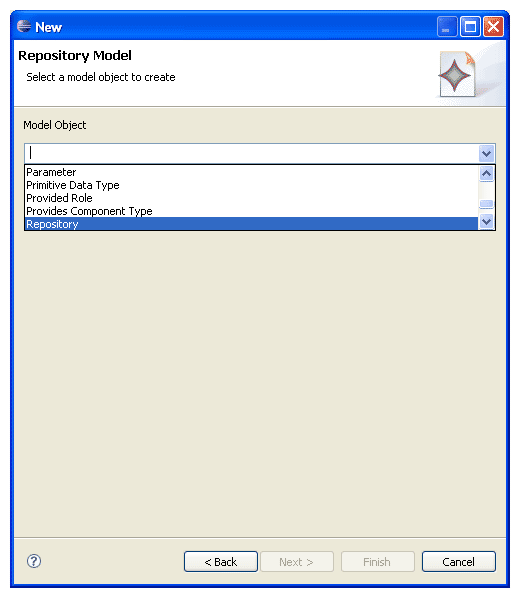
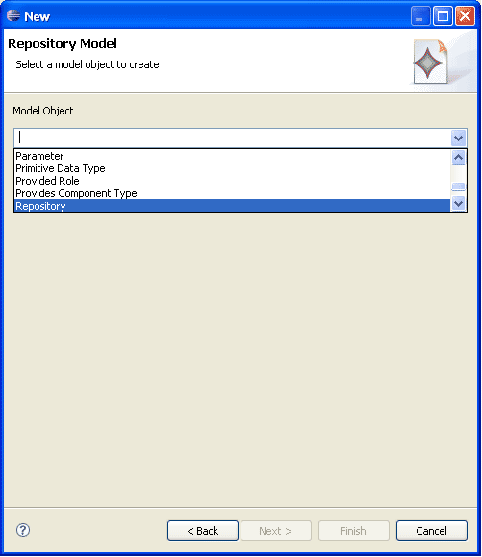
git-svn-id: https://svnserver.informatik.kit.edu/i43/svn/code@3336 769cc9a0-fb0c-0410-8c2f-a2305f0e6268

Changed region(s): [[0.0, 0.0, 1.0, 1.0]]

diff --git a/PalladioCM.PCMBench/trunk/de.uka.ipd.sdq.pcmbench.help/html/gettingstarted/ResourcetypeModel.htm b/PalladioCM.PCMBench/trunk/de.uka.ipd.sdq.pcmbench.help/html/gettingstarted/ResourcetypeModel.htm
@@ -17,19 +17,19 @@
 
 <ol>
 
-  <li>In the Package Explor view, select the project and
-select&nbsp;
-    <strong>File &gt; New &gt; Other...</strong>
-from the project&acute;s context menu.</li>
-
-  <li>Select&nbsp;<strong>Example EMF Model Creation
-Wizards &gt; Resourcetype Model</strong> then click <strong>Next</strong>
+  <li>In the Package Explor view, select the project and select&nbsp;<strong>File &gt; New &gt; Other...</strong> from the project&acute;s context menu.</li>
+  <p></p>
+  <li>Select&nbsp;<strong>Example EMF Model Creation Wizards &gt; Resourcetype Model</strong> then click <strong>Next</strong>
 to start the wizard.</li>
-
+	<p></p>
+	<img src="Ressourcetype1.gif">
+	<p></p>
   <li>On the next page click again&nbsp;<strong>Next.</strong></li>
-
+	<p></p>
   <li>Select the Model Object&nbsp;<strong>Resource Repository</strong>
 and then click&nbsp;<strong>Finish.</strong></li>
+	<p></p>
+	<img src="Ressourcetype2.gif">
 
 </ol>
 
